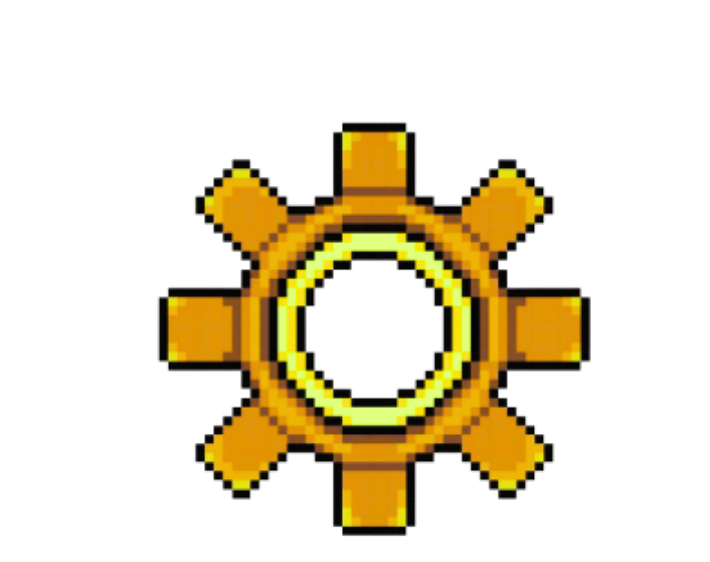
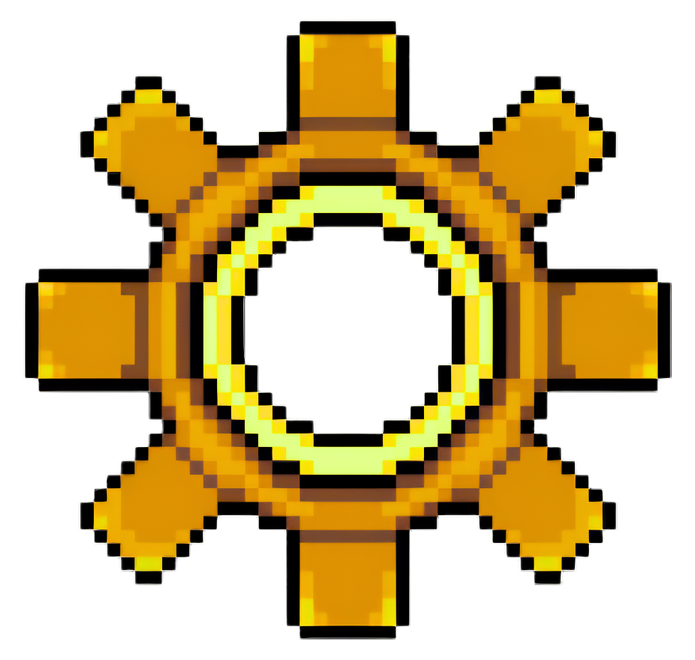
Added wheel spinning code

diff --git a/ui.js b/ui.js
@@ -10,7 +10,8 @@ const uiElements = {
     btnOil: document.getElementById('btn-oil'),
     btnHeat: document.getElementById('btn-heat'),
     btnAchievement: document.getElementById('btn-achievement'),
-    btnSettings: document.getElementById('btn-settings')
+    btnSettings: document.getElementById('btn-settings'),
+    wheel: document.getElementById('spin-wheel')
 };
 
 /** 
@@ -43,9 +44,68 @@ function initNavbarListeners() {
     uiElements.btnSettings?.addEventListener('click', () => console.log('Settings clicked'));
 }
 
+/** 
+ * WHEEL DRAG LOGIC
+ * Uses trig to calculate angle of pointer relative to wheel center
+ */
+function initWheelDrag() {
+    const wheel = uiElements.wheel;
+    if(!wheel) return;
+
+    let isDragging = false;
+    let currentRotation = 0;
+    let startAngle = 0;
+    let startRotation = 0;
+    let chachedCenter = null;
+
+    //Helper to find wheel center x and y on screen
+    function getCenter(element) {
+        const rect = element.getBoundingClientRect();
+        return {
+            x: rect.left + rect.width / 2,
+            y: rect.top + rect.height / 2
+        };
+    } 
+
+    //Mathing angles and prepares to spin wheel when click on the wheel
+    wheel.addEventListener('pointerdown', (e) => {
+        isDragging = true;
+        const center = getCenter(wheel);
+
+        startAngle = Math.atan2(e.clientY - center.y, e.clientX - center.x) * (180 / Math.PI);
+        startRotation = currentRotation;
+
+        wheel.setPointerCapture(e.pointerId);
+    });
+
+    //when user rotates, spin wheel after calculating angle change
+    wheel.addEventListener('pointermove', (e) => {
+        if(!isDragging) return;
+
+        const center = getCenter(wheel);
+        const currentAngle = Math.atan2(e.clientY - center.y, e.clientX - center.x) * (180 / Math.PI);
+
+        const angleDiff = currentAngle - startAngle;
+
+        currentRotation = startRotation + angleDiff;
+
+        wheel.style.transform = `rotate(${currentRotation}deg)`;
+    });
+
+    const stopDrag = (e) => {
+        isDragging = false;
+        if (e.pointerId) wheel.releasePointerCapture(e.pointerId);
+    };
+
+    wheel.addEventListener('pointerup', stopDrag);
+    wheel.addEventListener('pointercancel', stopDrag);
+
+}
+
 //Ensures html loaded then assigns logic
 document.addEventListener('DOMContentLoaded', () => {
     initNavbarListeners();//Initializes buttons
+    initWheelDrag(); //Initializes wheel spin
 
 
     //TEST OF HEAT BAR, DELETE LATER

diff --git a/style.css b/style.css
@@ -7,7 +7,7 @@
 
 body {
     font-family: 'Segoe UI', sans-serif;
-    background-color: #0d072a /* FEEL FREE TO CHANGE IS PLACEHOLDER*/
+    background-color: #0d072a; /* FEEL FREE TO CHANGE IS PLACEHOLDER*/
 }
 
 /* ---------------- NAVBAR LAYOUUT --------------- */
@@ -21,7 +21,7 @@ body {
     margin: 40px auto 0 auto;
 }
 
-/* ---------------------- NAB BUTTON STYLING ------------------- */
+/* ---------------------- NAV BUTTON STYLING ------------------- */
 .nav-button {
     flex: 1 1 0;
     display: flex;
@@ -52,4 +52,32 @@ body {
 .heat-button {
     overflow: hidden;
     background: linear-gradient(to right, #ff3b30 0%, #ff9500 0%, #696161bd 0%);
+}
+
+/* -------------------- GAME AREA + WHEEL ---------------- */
+.game-container {
+    display: flex;
+    justify-content: center;
+    align-items: center;
+    margin-top: 60px;
+}
+.wheel-container {
+    width: 350px;
+    height: 350px;
+    display: flex;
+    justify-content: center;
+    align-items: center;
+    position: relative;
+}
+#spin-wheel {
+    width: 100%;
+    height: 100%;
+    object-fit: contain;
+    cursor: grab;
+    user-select: none;
+    touch-action: none;
+    will-change: transform;
+}
+#spin-wheel:active {
+    cursor: grabbing;
 }

diff --git a/index.html b/index.html
@@ -12,7 +12,7 @@
         <header class="top-navbar"> 
             <div class="nav-button" id="btn-money">
                 <img src="assets/money.png" alt="Money Icon" class="nav-icon">
-                <span class=""nav-text">Money</span>
+                <span class="nav-text">Money</span>
             </div>
 
             <div class="nav-button" id="btn-oil">
@@ -36,6 +36,13 @@
             </div>
 
         </header>
+
+        <!-- ------------ SPINNY WHEEL --------------- -->
+        <main class="game-container">
+            <div class="wheel-container">
+                <img src="assets/wheel.png" id="spin-wheel" alt="Spinning Wheel" draggable="false">
+            </div>
+        </main>
 
         <script src="ui.js?v=1.0.1"></script>
     </body>